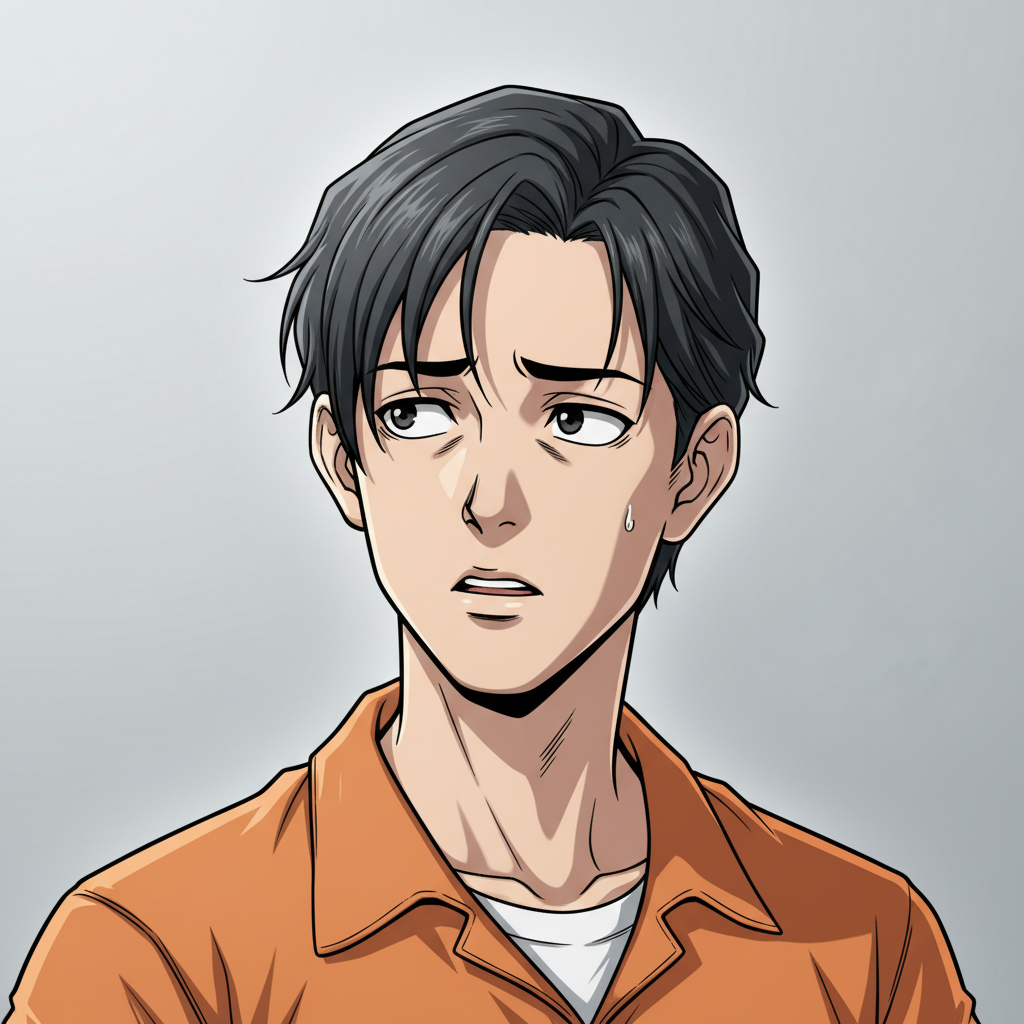
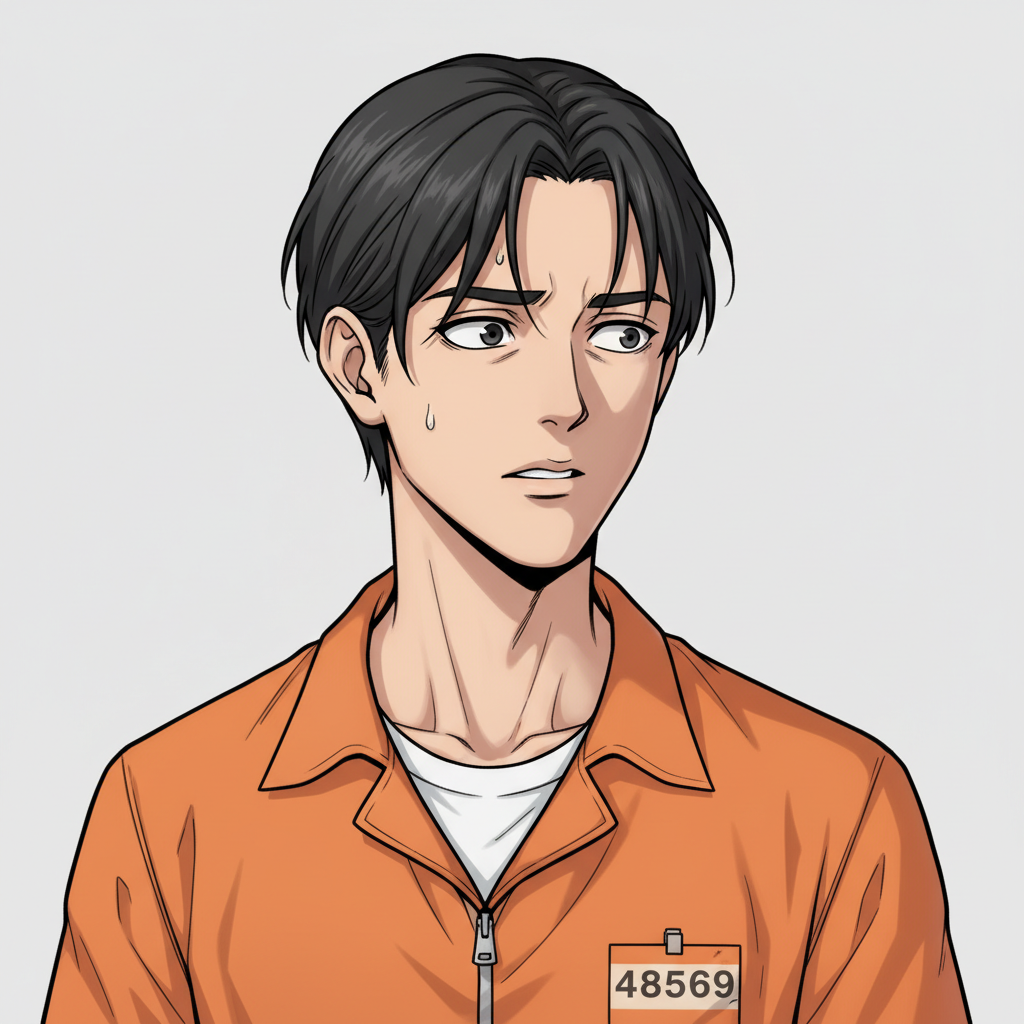
Reset and hide API key, change character portrait to headshot

diff --git a/generate_characters.py b/generate_characters.py
@@ -1,11 +1,13 @@
 from google import genai
 from google.genai import types
 from PIL import Image
+from dotenv import load_dotenv
 import io
 import os
 import time
 
-API_KEY = "AIzaSyCoq0WSHODplyBPufTPUr5j28CcvF04M_0"
+load_dotenv()
+API_KEY = os.environ.get('GEMINI_API_KEY')
 OUTPUT_DIR = r"C:\Users\DESKTOP\Documents\AIToyProject\client\public\images\characters"
 
 client = genai.Client(api_key=API_KEY)
@@ -14,37 +16,37 @@ characters = [
     {
         "id": "messiah",
         "name": "메시아 죄수",
-        "prompt": "Anime style portrait of a male prisoner with a serene, enlightened expression. He has long flowing hair, gentle wise eyes, and wears an orange prison jumpsuit. He has a calm, almost divine aura about him. Clean light gray background, bust shot, high quality anime art style similar to visual novel character portrait."
+        "prompt": "Anime style headshot portrait of a male prisoner with a serene, enlightened expression. He has long flowing hair, gentle wise eyes, and wears an orange prison jumpsuit. He has a calm, almost divine aura about him. Clean light gray background, Head and Shoulders Portrait, high quality anime art style similar to visual novel character portrait."
     },
     {
         "id": "arsonist",
         "name": "방화범 죄수",
-        "prompt": "Anime style portrait of a male prisoner with wild, excited eyes and messy spiky red hair. He has burn scars on his face and wears an orange prison jumpsuit. His expression shows chaotic enthusiasm. Clean light gray background, bust shot, high quality anime art style similar to visual novel character portrait."
+        "prompt": "Anime style headshot portrait of a male prisoner with wild, excited eyes and messy spiky red hair. He has burn scars on his face and wears an orange prison jumpsuit. His expression shows chaotic enthusiasm. Clean light gray background, Head and Shoulders Portrait, high quality anime art style similar to visual novel character portrait."
     },
     {
         "id": "groper",
         "name": "치한 죄수",
-        "prompt": "Anime style portrait of a nervous-looking male prisoner with greasy slicked-back dark hair and shifty eyes. He wears an orange prison jumpsuit and has a suspicious expression. Clean light gray background, bust shot, high quality anime art style similar to visual novel character portrait."
+        "prompt": "Anime style headshot portrait of a nervous-looking male prisoner with greasy slicked-back dark hair and shifty eyes. He wears an orange prison jumpsuit and has a suspicious expression. Clean light gray background, Head and Shoulders Portrait, high quality anime art style similar to visual novel character portrait."
     },
     {
         "id": "fraudster",
         "name": "사기꾼 죄수",
-        "prompt": "Anime style portrait of a charming, well-groomed male prisoner with slick hair and a confident smirk. He wears an orange prison jumpsuit but maintains an air of sophistication. His eyes are calculating and clever. Clean light gray background, bust shot, high quality anime art style similar to visual novel character portrait."
+        "prompt": "Anime style headshot portrait of a charming, well-groomed male prisoner with slick hair and a confident smirk. He wears an orange prison jumpsuit but maintains an air of sophistication. His eyes are calculating and clever. Clean light gray background, Head and Shoulders Portrait, high quality anime art style similar to visual novel character portrait."
     },
     {
         "id": "political",
         "name": "정치범 죄수",
-        "prompt": "Anime style portrait of an intellectual-looking male prisoner with glasses and neat short hair. He has a dignified, defiant expression and wears an orange prison jumpsuit. He looks like a former politician or activist. Clean light gray background, bust shot, high quality anime art style similar to visual novel character portrait."
+        "prompt": "Anime style headshot portrait of an intellectual-looking male prisoner with glasses and neat short hair. He has a dignified, defiant expression and wears an orange prison jumpsuit. He looks like a former politician or activist. Clean light gray background, Head and Shoulders Portrait, high quality anime art style similar to visual novel character portrait."
     },
     {
         "id": "wifekiller",
         "name": "아내 살인범 죄수",
-        "prompt": "Anime style portrait of a middle-aged male prisoner with a haunted, emotionless expression. He has tired eyes with dark circles, receding hairline, and wears an orange prison jumpsuit. His face shows deep regret. Clean light gray background, bust shot, high quality anime art style similar to visual novel character portrait."
+        "prompt": "Anime style headshot portrait of a middle-aged male prisoner with a haunted, emotionless expression. He has tired eyes with dark circles, receding hairline, and wears an orange prison jumpsuit. His face shows deep regret. Clean light gray background, Head and Shoulders Portrait, high quality anime art style similar to visual novel character portrait."
     },
     {
         "id": "pedophile",
         "name": "소아성폭력범 죄수",
-        "prompt": "Anime style portrait of a balding, overweight male prisoner with thick glasses and a meek expression. He wears an orange prison jumpsuit and looks uncomfortable. Clean light gray background, bust shot, high quality anime art style similar to visual novel character portrait."
+        "prompt": "Anime style headshot portrait of a balding, overweight male prisoner with thick glasses and a meek expression. He wears an orange prison jumpsuit and looks uncomfortable. Clean light gray background, Head and Shoulders Portrait, high quality anime art style similar to visual novel character portrait."
     }
 ]
 
